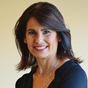
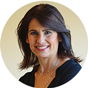
Add contributor pics

diff --git a/07-conclusion/contributors.html b/07-conclusion/contributors.html
@@ -258,10 +258,12 @@
 	</div>
 	</div><div class="contributor">
 	<div class="header"><img src="../images/contributors/bonnie-meisels.png" alt="Bonnie Meisels" class="profile" />
-	<h3>Bonnie Meisels</h3></div>
+	<h3>Bonnie Meisels</h3><p>Designer, Social Entrepreneur, Real Estate Broker</p></div>
 	<div class="role">
 	  <p class="other">other</p></div>
-    <div class="description"><p> Lorem ipsum </p><div class="links"><a href="https://infoactive.co/data-design" target="_blank" class="website">website</a></div>
+    <div class="description"><p>As a graduate of Parson's School of Design, Bonnie designed handbags & accessories 
+in New York. After moving back to Montreal, she is applying her passion for designing
+and making a difference to her practice as a socially conscious real estate broker.</p>
 	</div>
 	</div><div class="contributor">
 	<div class="header"><img src="../images/contributors/tom-morris.png" alt="Tom Morris" class="profile" />
@@ -300,7 +302,7 @@
     <div class="description"><p> Kiran delivers advanced analytics and business consulting solutions to various Fortune 500 clients. He holds a dual degree in engineering from IIT Madras, India, and his technical expertise spans SAS, Python, Hadoop and Tableau. Outside of work, Kiran writes, travels and cheers for his favorite club, Manchester United in EPL. </p><div class="links"><a href="https://infoactive.co/data-design" target="_blank" class="website">website</a></div>
 	</div>
 	</div><div class="contributor">
-	<div class="header"><img src="../images/contributors/avatar.png" alt="Christine Ridgway" class="profile" />
+	<div class="header"><img src="../images/contributors/christine-ridgway.png" alt="Christine Ridgway" class="profile" />
 	<h3>Christine Ridgway</h3><p>National Clinical Educator at Teleflex Medical Australia</p></div>
 	<div class="role">
 	  <p class="editor">editor</p></div>

diff --git a/01-intro/preface.html b/01-intro/preface.html
@@ -33,7 +33,7 @@
 
 <p>I also want to thank the <a href="http://www.rjionline.org/" target="_blank">Reynolds Journalism Institute (RJI)</a> for supporting Data + Design. RJI&rsquo;s support for journalism and data storytelling played an instrumental role in bringing this project to life.</p>
 
-<p data-type="author">Trina Chiasson
+<p data-type="author">Trina Chiasson<br />
   <em>Co-founder &amp; CEO, Infoactive<br />
   2013-2014 Fellow, Reynolds Journalism Institute</em></p>
 </section>
